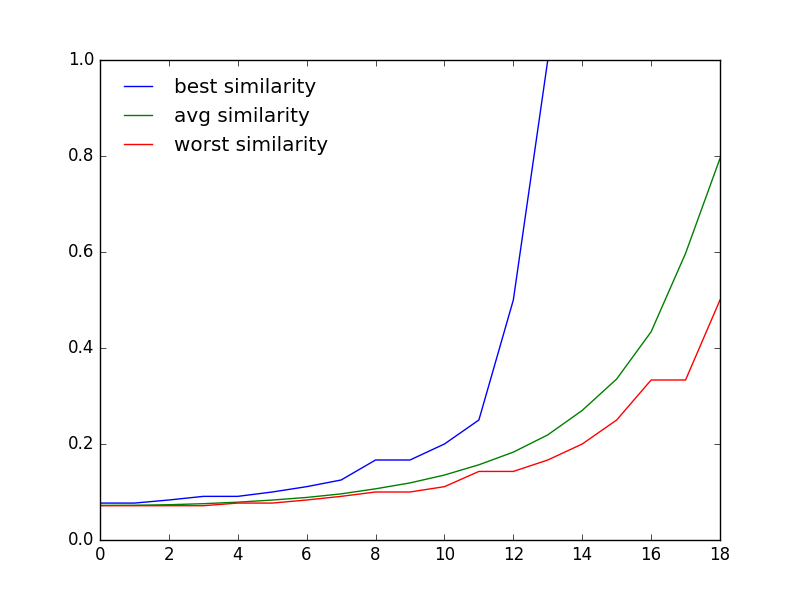
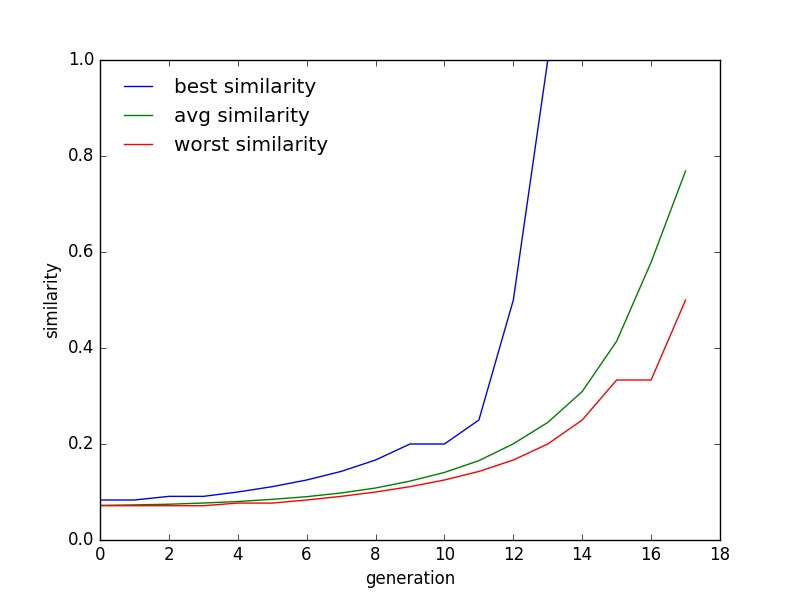
add axis labels

diff --git a/genetic_algorithm_hello_world.py b/genetic_algorithm_hello_world.py
@@ -101,6 +101,8 @@ plt.plot(X, statistics[0], color="blue", label='best similarity')
 plt.plot(X, statistics[1], color="green", label='avg similarity')
 plt.plot(X, statistics[2], color="red", label='worst similarity')
 plt.legend(loc='upper left', frameon=False)
+plt.xlabel('generation')
+plt.ylabel('similarity')
 plt.show()
 print result[0]
 print result[-1]

diff --git a/README.md b/README.md
@@ -1,5 +1,5 @@
-# Reference
-[Genetic Algorithm For Hello World](http://www.puremango.co.uk/2010/12/genetic-algorithm-for-hello-world/)
-
 # Example
 ![](./img/example.png)
+
+# Reference
+[Genetic Algorithm For Hello World](http://www.puremango.co.uk/2010/12/genetic-algorithm-for-hello-world/)
